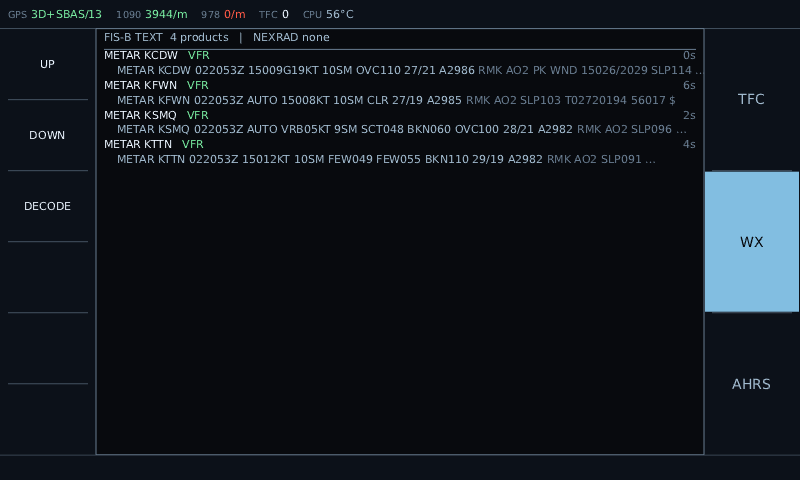
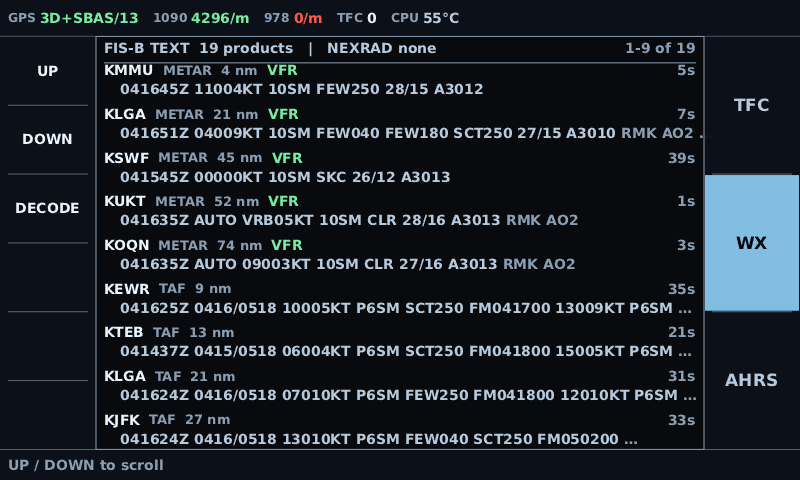
Weather page: nearest station first, and stop repeating yourself
Reported from the panel as crowded and hard to pick an airport out of. Three
causes, all visible in one rendered frame.

**The order was alphabetical**, which is arbitrary to a pilot. With 33 reports
on board over New York, KMMU — the field own-ship was sitting on — came tenth,
behind Allentown, Bridgeport and Danbury, purely because of its spelling. The
chart already carries a position for every ICAO station, so the page now sorts
by distance within each product and prints it. KMMU is first at 4 nm. Stations
the chart does not know sort last: an unknown distance is not a near one.

**Every row began with the same word.** The heading was "METAR KABE", so the
eye landed on eleven identical characters and had to travel to reach the one
thing that differed. The station now leads, in the brightest colour on the row,
with the product and distance beside it in the dim one.

**And the body repeated it.** "METAR KABE 041551Z ..." under a heading that
already said METAR and KABE — eleven more characters of the left edge, the most
valuable space on the line, spent on a repeat. Stripped, keeping the issue time,
which is the one part of the prefix the row does not otherwise carry. Several
reports now fit without truncation that did not before.

Entries are also spaced apart, so two lines read as one report rather than as
twenty undifferentiated lines. That costs about one entry a page, which is
affordable precisely because the one you want is now first.
[…]

diff --git a/crates/avionics-ui/src/weatherpage.rs b/crates/avionics-ui/src/weatherpage.rs
@@ -13,10 +13,10 @@ use std::time::Instant;
 
 use avionics_gfx::femtovg::{Align, Baseline, Paint, Path};
 use avionics_gfx::Canvas;
-use stratux_client::domain::{WeatherProduct, WeatherText};
+use stratux_client::domain::{LatLon, WeatherProduct, WeatherText};
 use stratux_client::AppState;
 
-use crate::{glossary, metar, Layout, Ui, ViewState};
+use crate::{glossary, metar, Chart, Layout, Ui, ViewState};
 
 /// Sort priority: the products a pilot reaches for first come first.
 fn priority(product: &WeatherProduct) -> u8 {
@@ -32,23 +32,96 @@ fn priority(product: &WeatherProduct) -> u8 {
     }
 }
 
-/// Ordered view of everything held, newest-relevant first within each product.
-pub fn ordered(state: &AppState) -> Vec<&WeatherText> {
+/// Ordered view of everything held: by product, then **nearest first**.
+///
+/// # Why not alphabetical
+///
+/// It was, and alphabetical is an arbitrary order to a pilot. With 33 reports on board over New
+/// York, `KMMU` — the field own-ship was sitting on — came *tenth*, behind Allentown, Bridgeport
+/// and Danbury, purely because of its spelling. The reports you want are the ones near you, and
+/// since the chart carries a position for every ICAO station the display can simply say so.
+///
+/// Reports whose station is not in the chart sort last rather than first: an unknown distance is
+/// not a near one.
+pub fn ordered<'a>(
+    state: &'a AppState,
+    chart: Option<&Chart>,
+    origin: Option<LatLon>,
+) -> Vec<&'a WeatherText> {
+    let distance = |item: &WeatherText| station_distance_nm(item, chart, origin);
+
     let mut items: Vec<&WeatherText> = state.weather.values().collect();
     items.sort_by(|a, b| {
+        let (da, db) = (distance(a), distance(b));
         priority(&a.product)
             .cmp(&priority(&b.product))
+            // `None` sorts after `Some` for Option, which is what "unknown is not near" wants.
+            .then_with(|| match (da, db) {
+                (Some(x), Some(y)) => x.partial_cmp(&y).unwrap_or(std::cmp::Ordering::Equal),
+                (Some(_), None) => std::cmp::Ordering::Less,
+                (None, Some(_)) => std::cmp::Ordering::Greater,
+                (None, None) => std::cmp::Ordering::Equal,
+            })
             .then_with(|| a.location.cmp(&b.location))
             .then_with(|| a.body.cmp(&b.body))
     });
     items
 }
 
+/// Distance from `origin` to a report's station, when both are known.
+pub fn station_distance_nm(
+    item: &WeatherText,
+    chart: Option<&Chart>,
+    origin: Option<LatLon>,
+) -> Option<f32> {
+    let origin = origin?;
+    let airport = chart?.airport_by_station(&item.location)?;
+    let north = (airport.position.lat - origin.lat) * 60.0;
+    let east = (airport.position.lon - origin.lon) * 60.0 * origin.lat.to_radians().cos().abs();
+    Some((north * north + east * east).sqrt() as f32)
+}
+
+/// Strip the leading product and station from a report body.
+///
+/// A row already names both in its heading, and the body then repeats them: `METAR KABE 041551Z
+/// 23003KT ...` under a heading that says `KABE METAR`. That is about eleven characters of the
+/// most valuable space on the line — the left edge, where the eye lands — spent saying something
+/// the reader has just read. The issue time stays: it is the one part of the prefix that is not
+/// already on the row.
+pub fn body_without_prefix<'a>(body: &'a str, location: &str) -> &'a str {
+    let mut rest = body.trim_start();
+    for prefix in ["METAR", "SPECI", "TAF", "PIREP", "AIRMET", "SIGMET"] {
+        if let Some(stripped) = rest.strip_prefix(prefix) {
+            if stripped.starts_with(' ') {
+                rest = stripped.trim_start();
+                break;
+            }
+        }
+    }
+    if !location.is_empty() {
+        if let Some(stripped) = rest.strip_prefix(location) {
+            if stripped.starts_with(' ') {
+                rest = stripped.trim_start();
+            }
+        }
+    }
+    rest
+}
+
 /// How many entries fit on screen, given the layout. Used for scrolling.
+/// Extra space after each entry.
+///
+/// Without it the heading and body lines are evenly spaced, so ten reports read as twenty
+/// undifferentiated lines rather than as ten things. It costs about one entry per page, which is
+/// a good trade now that the nearest report is first and the rest are rarely reached.
+pub fn entry_gap(ui: &Ui) -> f32 {
+    ui.theme.font_size_small * 0.42
+}
+
 pub fn rows_per_page(ui: &Ui, layout: &Layout) -> usize {
     let line = ui.theme.font_size_small * 1.35;
     let body = layout.height - layout.status_bar_height - layout.footer_height - line;
-    ((body / (line * 2.0)).floor() as usize).max(1)
+    ((body / (line * 2.0 + entry_gap(ui))).floor() as usize).max(1)
 }
 
 pub fn draw(
@@ -60,7 +133,7 @@ pub fn draw(
     layout: &Layout,
 ) {
     let theme = &ui.theme;
-    let items = ordered(state);
+    let items = ordered(state, ui.chart(), state.ownship.usable_position());
     let line = theme.font_size_small * 1.35;
     let per_page = rows_per_page(ui, layout);
 
@@ -138,12 +211,44 @@ pub fn draw(
         label.set_text_baseline(Baseline::Middle);
         label.set_text_align(Align::Left);
 
+        // The station leads, in the brightest colour on the row. It used to trail the product
+        // label — every row began with the word METAR, identical and eleven characters wide, so
+        // the eye landed on the one thing that was the same everywhere and had to travel to reach
+        // the one thing that was not.
         let heading = if item.location.is_empty() {
             item.product.label().to_string()
         } else {
-            format!("{} {}", item.product.label(), item.location)
+            item.location.clone()
         };
         let _ = canvas.fill_text(layout.content_left(), y, &heading, &label);
+
+        let mut x = layout.content_left()
+            + canvas
+                .measure_text(0.0, 0.0, &heading, &label)
+                .map(|m| m.width())
+                .unwrap_or(0.0)
+            + 9.0;
+
+        // Product and distance, both secondary: they say why the row is here and where it sits in
+        // the order, neither of which is what you are scanning for.
+        let mut aside = Paint::color(theme.text_dim);
+        aside.set_font(&[ui.font()]);
+        aside.set_font_size(theme.font_size_tag);
+        aside.set_text_baseline(Baseline::Middle);
+        aside.set_text_align(Align::Left);
+        if !item.location.is_empty() {
+            let mut note = item.product.label().to_string();
+            if let Some(nm) = station_distance_nm(item, ui.chart(), state.ownship.usable_position())
+            {
+                note.push_str(&format!("  {nm:.0} nm"));
+            }
+            let _ = canvas.fill_text(x, y, &note, &aside);
+            x += canvas
+                .measure_text(0.0, 0.0, &note, &aside)
+                .map(|m| m.width())
+                .unwrap_or(0.0)
+                + 9.0;
+        }
 
         // Flight category badge — METARs and SPECIs only.
         //
@@ -160,21 +265,12 @@ pub fn draw(
             .then(|| metar::summarise(&item.body).category)
             .flatten();
         if let Some(category) = category {
-            let heading_w = canvas
-                .measure_text(0.0, 0.0, &heading, &label)
-                .map(|m| m.width())
-                .unwrap_or(0.0);
             let mut badge = Paint::color(category.colour(&ui.theme));
             badge.set_font(&[ui.font()]);
             badge.set_font_size(theme.font_size_small);
             badge.set_text_baseline(Baseline::Middle);
             badge.set_text_align(Align::Left);
-            let _ = canvas.fill_text(
-                layout.content_left() + heading_w + 10.0,
-                y,
-                category.label(),
-                &badge,
-            );
+            let _ = canvas.fill_text(x, y, category.label(), &badge);
         }
 
         // Age on the right, coloured once it is old enough to matter.
@@ -203,9 +299,12 @@ pub fn draw(
 
         let indent = layout.content_left() + theme.font_size_small * 1.2;
         let available = layout.content_right() - indent;
-        draw_body_tokens(ui, canvas, &item.body, &mut body, indent, y, available);
+        // Without the prefix the heading already carries — see `body_without_prefix`.
+        let shown = body_without_prefix(&item.body, &item.location);
+        draw_body_tokens(ui, canvas, shown, &mut body, indent, y, available);
 
         y += line;
+        y += entry_gap(ui);
         if y > layout.height - layout.footer_height {
             break;
         }
@@ -605,6 +704,51 @@ fn draw_wrapped_tokens(
         x += width + space;
     }
     y + line
+}
+
+#[cfg(test)]
+mod ordering_tests {
+    use super::*;
+
+    #[test]
+    fn a_body_does_not_repeat_what_the_heading_already_says() {
+        // Every row used to begin `METAR KABE` under a heading that said `KABE METAR` — about
+        // eleven characters of the left edge, where the eye lands, spent on a repeat.
+        assert_eq!(
+            body_without_prefix("METAR KABE 041551Z 23003KT 10SM CLR", "KABE"),
+            "041551Z 23003KT 10SM CLR"
+        );
+        assert_eq!(
+            body_without_prefix("TAF KEWR 041624Z 0416/0518 10005KT", "KEWR"),
+            "041624Z 0416/0518 10005KT"
+        );
+        // The issue time stays: it is the one part of the prefix the row does not already carry.
+        assert!(body_without_prefix("METAR KMMU 041545Z CLR", "KMMU").starts_with("041545Z"));
+    }
+
+    #[test]
+    fn a_body_that_does_not_start_with_the_prefix_is_left_alone() {
+        // Never chop at a boundary that is not there. A SPECI under a METAR heading, a report with
+        // no station, a station that merely shares a prefix.
+        assert_eq!(body_without_prefix("041551Z 23003KT", "KABE"), "041551Z 23003KT");
+        assert_eq!(body_without_prefix("METARX KABE 1Z", "KABE"), "METARX KABE 1Z");
+        assert_eq!(body_without_prefix("METAR KABEX 1Z", "KABE"), "KABEX 1Z");
+        assert_eq!(body_without_prefix("", "KABE"), "");
+        assert_eq!(body_without_prefix("METAR", "KABE"), "METAR");
+    }
+
+    #[test]
+    fn a_page_holds_fewer_entries_once_they_are_spaced_apart() {
+        // The gap is what makes two lines read as one report. It costs about an entry a page,
+        // which is affordable precisely because the nearest report is now first.
+        let ui_gap: f32 = 14.0 * 0.42;
+        let line: f32 = 14.0 * 1.35;
+        let body: f32 = 480.0 - 36.4 - 30.6 - line;
+        let without = (body / (line * 2.0)).floor() as usize;
+        let with = (body / (line * 2.0 + ui_gap)).floor() as usize;
+        assert!(with < without, "the gap should cost something: {with} vs {without}");
+        assert!(without - with <= 2, "but not more than a couple of entries");
+    }
 }
 
 #[cfg(test)]

diff --git a/crates/avionics-ui/src/chart.rs b/crates/avionics-ui/src/chart.rs
@@ -433,6 +433,12 @@ pub struct Chart {
     freq_off: usize,
     string_off: usize,
     string_len: usize,
+    /// `(station, airport index)`, sorted by station.
+    ///
+    /// Built once at load because the alternative is a linear scan of 18,108 records per lookup,
+    /// and the weather page wants one lookup per report per frame. 2,335 entries — the airports
+    /// that actually have an ICAO code — so this is about 40 KB and a binary search.
+    by_station: Vec<(String, u32)>,
 }
 
 impl Chart {
@@ -447,7 +453,7 @@ impl Chart {
     /// the first sign of that is an airport drawn in the sea — which is a long way from the cause.
     pub fn from_bytes(bytes: Vec<u8>) -> Result<Self> {
         let header = Header::parse(&bytes)?;
-        Ok(Self {
+        let mut chart = Self {
             bytes,
             grid: header.grid,
             effective_days: header.effective_days,
@@ -462,7 +468,27 @@ impl Chart {
             freq_off: header.freq_off,
             string_off: header.string_off,
             string_len: header.string_len,
-        })
+            by_station: Vec::new(),
+        };
+
+        chart.by_station = (0..chart.airport_count as usize)
+            .filter_map(|i| chart.airport_at(i))
+            .filter(|a| !a.station().is_empty())
+            .map(|a| (a.station().to_string(), a.index))
+            .collect();
+        chart.by_station.sort_by(|a, b| a.0.cmp(&b.0));
+        Ok(chart)
+    }
+
+    /// The airport with this ICAO station identifier.
+    ///
+    /// The reverse of [`Airport::station`], for turning a METAR's `KMMU` back into a position.
+    pub fn airport_by_station(&self, station: &str) -> Option<Airport> {
+        let i = self
+            .by_station
+            .binary_search_by(|(s, _)| s.as_str().cmp(station))
+            .ok()?;
+        self.airport_at(self.by_station[i].1 as usize)
     }
 
     /// Days since the Unix epoch of the FAA layer's own last edit — the currency of the airspace,

diff --git a/README.md b/README.md
@@ -82,7 +82,17 @@ far overhead.
 
 ### Weather text
 
-![FIS-B text page listing live METARs](docs/images/weather-raw.png)
+![FIS-B text page listing live METARs, nearest station first](docs/images/weather-raw.png)
+
+**Nearest station first**, which is the whole reason this page is readable. It used to sort
+alphabetically: with 33 reports on board over New York, `KMMU` — the field own-ship was sitting on
+— came *tenth*, behind Allentown, Bridgeport and Danbury, purely because of its spelling. The chart
+carries a position for every ICAO station, so the display sorts by distance and shows it.
+
+The station leads the row in the brightest colour on it. Every row used to begin with the word
+`METAR`, identical and eleven characters wide, so the eye landed on the one thing that was the same
+everywhere. The body no longer repeats the product and station either — the heading already says
+both, and that was eleven more characters of the left edge spent on a repeat.
 
 Real observations, pulled from aviationweather.gov moments before this was rendered. Newest first,
 each carrying **its own age** — delivery is opportunistic, so one station can be twenty minutes
@@ -353,7 +363,7 @@ device.
 | — | Soft-key strip + AHRS attitude page | **on the panel**; attitude sign conventions verified by tilting the box |
 | M7 | Airports + airspace map layer | **on the panel** — 18,108 airports, 1,408 Class B/C/D polygons, runway ticks, tap-to-inspect with frequencies and station weather; all from the FAA's own layers on one AIRAC cycle, measured on the real VC4 under GLES 2.0 |
 
-386 tests passing, clippy clean.
+389 tests passing, clippy clean.
 
 The honest summary: the *stack* is proven end to end on the target — cross-compile, KMS, GLES2,
 panel, touch, all five Stratux sockets, live 1090 MHz traffic, and frame cost measured on a
